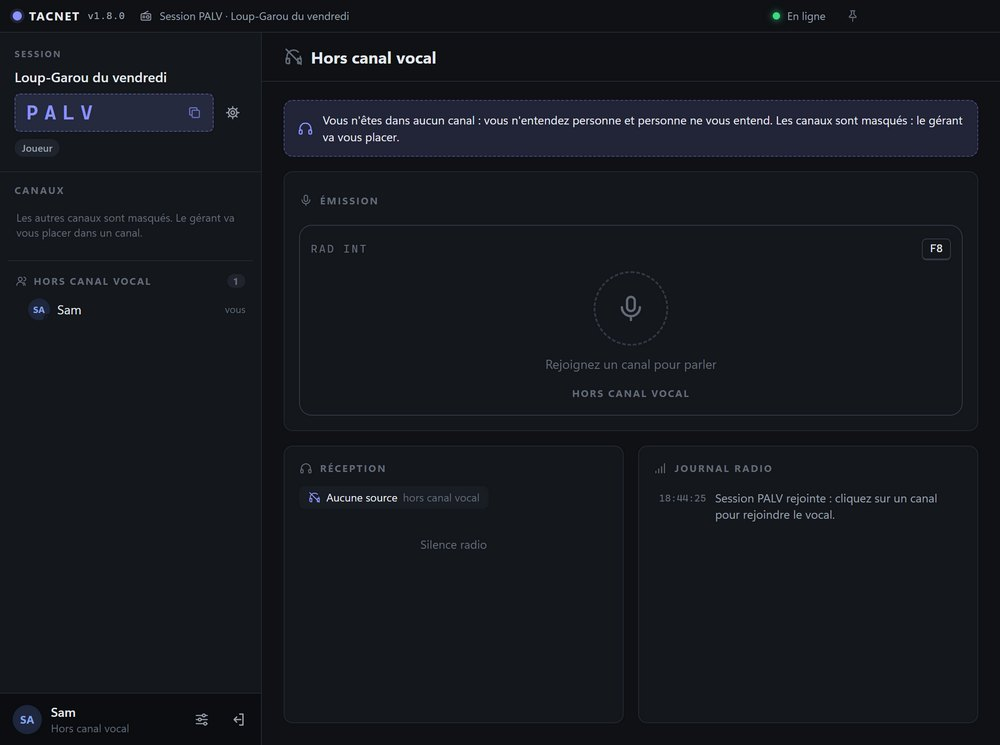
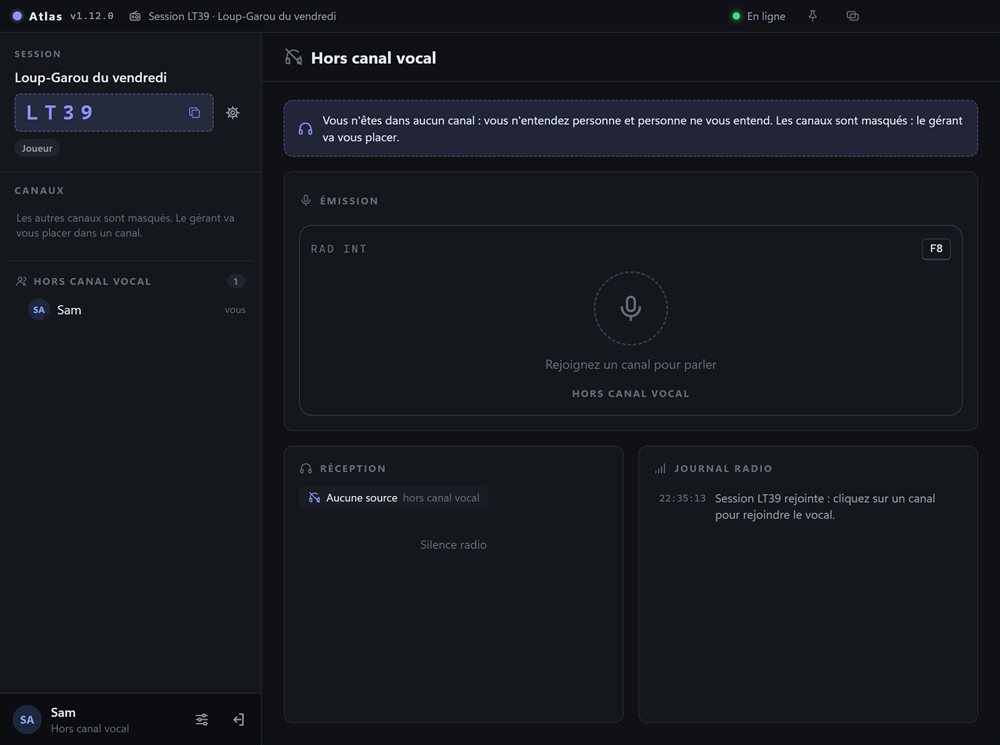
Atlas : nouveau nom, captures et schéma mis à jour

diff --git a/docs/domaine-et-https.md b/docs/domaine-et-https.md
@@ -1,24 +1,24 @@
-# Domaine et HTTPS pour votre serveur TACNET
+# Domaine et HTTPS pour votre serveur Atlas
 
-[← Retour à la page TACNET](../README.md#il-faut-un-serveur)
+[← Retour à la page Atlas](../README.md#il-faut-un-serveur)
 
-Ce guide est pour celles et ceux qui **hébergent leur propre serveur** TACNET, avec Docker ou avec Node.js sous Windows. Sur Render, le nom de domaine et le HTTPS sont déjà fournis : il n'y a rien à faire.
+Ce guide est pour celles et ceux qui **hébergent leur propre serveur** Atlas, avec Docker ou avec Node.js sous Windows. Sur Render, le nom de domaine et le HTTPS sont déjà fournis : il n'y a rien à faire.
 
 ## À quoi ça sert
 
-Sans domaine, les joueurs saisissent l'adresse de votre machine, un numéro de port et une empreinte à recopier. **Avec un nom de domaine**, ils saisissent une adresse simple, `wss://tacnet.example.com`, et **plus d'empreinte** : la connexion est chiffrée avec un vrai certificat.
+Sans domaine, les joueurs saisissent l'adresse de votre machine, un numéro de port et une empreinte à recopier. **Avec un nom de domaine**, ils saisissent une adresse simple, `wss://atlas.example.com`, et **plus d'empreinte** : la connexion est chiffrée avec un vrai certificat.
 
-Pour cela, un petit logiciel, le **reverse proxy**, reçoit leurs connexions et les transmet à TACNET. Ce guide utilise **Caddy**, qui obtient et renouvelle tout seul le certificat HTTPS.
+Pour cela, un petit logiciel, le **reverse proxy**, reçoit leurs connexions et les transmet à Atlas. Ce guide utilise **Caddy**, qui obtient et renouvelle tout seul le certificat HTTPS.
 
-> **Caddy n'est pas le seul choix.** Il est choisi ici parce qu'il est le plus simple, mais TACNET fonctionne avec **n'importe quel reverse proxy** : Nginx, Nginx Proxy Manager, Traefik, HAProxy, Apache, celui de votre NAS ou de votre box… Si vous en avez déjà un, ou si vous préférez un autre, passez directement à [Un autre reverse proxy](#un-autre-reverse-proxy-nginx-haproxy-traefik).
+> **Caddy n'est pas le seul choix.** Il est choisi ici parce qu'il est le plus simple, mais Atlas fonctionne avec **n'importe quel reverse proxy** : Nginx, Nginx Proxy Manager, Traefik, HAProxy, Apache, celui de votre NAS ou de votre box… Si vous en avez déjà un, ou si vous préférez un autre, passez directement à [Un autre reverse proxy](#un-autre-reverse-proxy-nginx-haproxy-traefik).
 
 ```
-Application  →  wss:// chiffré  →  Caddy  →  ws:// local  →  Serveur TACNET
+Application  →  wss:// chiffré  →  Caddy  →  ws:// local  →  Serveur Atlas
 ```
 
 ## Avant de commencer
 
-Trois choses à avoir en place. Dans tout ce guide, remplacez `tacnet.example.com` par votre domaine.
+Trois choses à avoir en place. Dans tout ce guide, remplacez `atlas.example.com` par votre domaine.
 
 1. **Un nom de domaine**, ou un sous-domaine gratuit (DuckDNS, par exemple).
 2. **Ce nom pointe vers votre machine.** Chez le service où vous l'avez obtenu, créez un enregistrement `A` avec l'adresse IP publique de votre box. Attendez quelques minutes.
@@ -26,12 +26,12 @@ Trois choses à avoir en place. Dans tout ce guide, remplacez `tacnet.example.co
 
 ## Avec Docker
 
-On ajoute Caddy au fichier du serveur : tout reste dans le même dossier, et une seule commande démarre l'ensemble. Il faut que le serveur Docker de la [page TACNET](../README.md#docker) soit déjà en place.
+On ajoute Caddy au fichier du serveur : tout reste dans le même dossier, et une seule commande démarre l'ensemble. Il faut que le serveur Docker de la [page Atlas](../README.md#docker) soit déjà en place.
 
 **1. Placez-vous dans le dossier du serveur**, celui qui contient `docker-compose.yml` :
 
 ```
-cd tacnet-serveur
+cd atlas-serveur
 ```
 
 **2. Créez le fichier de Caddy.** Cette commande crée `Caddyfile` et l'ouvre dans l'éditeur nano :
@@ -43,12 +43,12 @@ nano Caddyfile
 Collez ces trois lignes, avec votre domaine, puis enregistrez (**Ctrl+O**, **Entrée**) et quittez (**Ctrl+X**) :
 
 ```
-tacnet.example.com {
-    reverse_proxy tacnet:8080
+atlas.example.com {
+    reverse_proxy atlas:8080
 }
 ```
 
-`tacnet` est le nom du service dans `docker-compose.yml` : ne le changez pas.
+`atlas` est le nom du service dans `docker-compose.yml` : ne le changez pas.
 
 **3. Remplacez le fichier du serveur.** Ouvrez-le, effacez son contenu (dans nano, **Ctrl+K** plusieurs fois), collez celui-ci, remettez votre mot de passe (8 caractères minimum), puis enregistrez et quittez comme avant :
 
@@ -57,30 +57,30 @@ nano docker-compose.yml
 ```
 
 ```yaml
-# Serveur TACNET + Caddy (domaine et HTTPS) : le seul fichier à changer
+# Serveur Atlas + Caddy (domaine et HTTPS) : le seul fichier à changer
 #
 # Pour mettre à jour le serveur proprement (deux commandes, dans le dossier de ce fichier) :
 #   docker compose build --no-cache
 #   docker compose up -d
 # (Pour mettre à jour Caddy aussi, ajoutez « docker compose pull » avant la seconde.)
 services:
-  tacnet:
-    # Construit depuis le dépôt public de TACNET, comme Render
-    build: https://github.com/yanks-user/TACNET-SERVER-RENDER.git
+  atlas:
+    # Construit depuis le dépôt public d'Atlas, comme Render
+    build: https://github.com/yanks-user/Atlas-SERVER-RENDER.git
     restart: unless-stopped
     init: true
     stop_grace_period: 15s
-    # Pas de "ports" : seul Caddy joint TACNET, à l'intérieur de Docker
+    # Pas de "ports" : seul Caddy joint Atlas, à l'intérieur de Docker
     expose:
       - "8080"
     environment:
       # Mot de passe demandé aux joueurs, 8 caractères minimum
       SERVER_PASSWORD: "changez-moi-svp"
-      # Caddy chiffre et transmet : TACNET n'a plus besoin de son certificat
+      # Caddy chiffre et transmet : Atlas n'a plus besoin de son certificat
       TLS: "off"
       TRUST_PROXY: "true"
     volumes:
-      - tacnet-data:/data
+      - atlas-data:/data
     read_only: true
     tmpfs:
       - /tmp
@@ -93,7 +93,7 @@ services:
     image: caddy:2
     restart: unless-stopped
     depends_on:
-      - tacnet
+      - atlas
     ports:
       - "80:80"
       - "443:443"
@@ -104,12 +104,12 @@ services:
       - caddy-config:/config
 
 volumes:
-  tacnet-data:
+  atlas-data:
   caddy-data:
   caddy-config:
 ```
 
-Ce qui change : TACNET n'ouvre plus de port vers l'extérieur (seul Caddy est joignable), `TLS` et `TRUST_PROXY` sont activés, et un second service, `caddy`, apparaît.
+Ce qui change : Atlas n'ouvre plus de port vers l'extérieur (seul Caddy est joignable), `TLS` et `TRUST_PROXY` sont activés, et un second service, `caddy`, apparaît.
 
 **4. Démarrez :**
 
@@ -128,12 +128,12 @@ docker compose logs caddy
 La ligne `certificate obtained successfully` confirme que le certificat est obtenu. Puis, depuis n'importe quel ordinateur :
 
 ```
-curl -i https://tacnet.example.com/
+curl -i https://atlas.example.com/
 ```
 
 La réponse attendue est un code **426** avec `WebSocket uniquement.` : c'est bon signe.
 
-**6. Prévenez les joueurs.** Dans TACNET, **Paramètres > Serveur** : adresse `wss://tacnet.example.com`, sans numéro de port, et **empreinte vide**.
+**6. Prévenez les joueurs.** Dans Atlas, **Paramètres > Serveur** : adresse `wss://atlas.example.com`, sans numéro de port, et **empreinte vide**.
 
 > **Docker Desktop (Windows, Mac).** Tous les joueurs peuvent y arriver avec la même adresse : une seule personne qui se trompe 5 fois de mot de passe bloque alors tout le monde pendant une minute. Sur Linux, un NAS ou un hébergeur, ce cas ne se présente pas.
 
@@ -143,7 +143,7 @@ Caddy est un seul fichier à lancer à côté du serveur, sans installation.
 
 **1. Téléchargez Caddy.** Sur [caddyserver.com/download](https://caddyserver.com/download), choisissez **Windows** et **amd64**, puis enregistrez le fichier sous le nom `caddy.exe` dans un nouveau dossier, par exemple `C:\caddy`.
 
-**2. Réglez le serveur TACNET.** Ajoutez ces trois lignes dans `config.env` (à côté de `demarrer-serveur.cmd`), puis fermez la fenêtre du serveur et relancez `demarrer-serveur.cmd` :
+**2. Réglez le serveur Atlas.** Ajoutez ces trois lignes dans `config.env` (à côté de `demarrer-serveur.cmd`), puis fermez la fenêtre du serveur et relancez `demarrer-serveur.cmd` :
 
 ```
 TLS=off
@@ -156,7 +156,7 @@ HOST=127.0.0.1
 **3. Créez le fichier de Caddy.** Dans `C:\caddy`, créez avec le Bloc-notes un fichier nommé exactement `Caddyfile`, sans extension (**Enregistrer sous**, type **Tous les fichiers**), avec votre domaine :
 
 ```
-tacnet.example.com {
+atlas.example.com {
     reverse_proxy 127.0.0.1:8080
 }
 ```
@@ -170,22 +170,22 @@ cd C:\caddy
 
 Autorisez Caddy dans le pare-feu Windows s'il le demande. **Laissez la fenêtre ouverte pendant les parties**, comme celle du serveur : la fermer arrête Caddy. La ligne `certificate obtained successfully` confirme que le certificat est obtenu.
 
-**5. Vérifiez et prévenez les joueurs.** Ouvrez `https://tacnet.example.com` dans un navigateur : la page affiche `WebSocket uniquement.`, c'est bon signe. Les joueurs saisissent dans **Paramètres > Serveur** l'adresse `wss://tacnet.example.com`, sans numéro de port, et **l'empreinte vide**.
+**5. Vérifiez et prévenez les joueurs.** Ouvrez `https://atlas.example.com` dans un navigateur : la page affiche `WebSocket uniquement.`, c'est bon signe. Les joueurs saisissent dans **Paramètres > Serveur** l'adresse `wss://atlas.example.com`, sans numéro de port, et **l'empreinte vide**.
 
 ## Si ça ne marche pas
 
 | Ce que vous voyez | Que faire |
 |---|---|
 | Le journal de Caddy parle de `timeout` ou d'un certificat impossible à obtenir | Les ports 80 et 443 ne sont pas joignables depuis Internet : vérifiez la redirection de votre box et le pare-feu. Certains fournisseurs bloquent le port 80. |
-| Le navigateur ne trouve pas `tacnet.example.com` | Le nom ne pointe pas encore vers votre box : vérifiez l'enregistrement `A` et patientez quelques minutes. Si l'adresse IP de votre box change, utilisez un service d'adresse dynamique (DuckDNS, par exemple). |
-| `curl` : code 502 ou 503 | Caddy ne joint pas TACNET. Docker : `docker compose ps` doit montrer `tacnet` et `caddy` en `Up`, et le Caddyfile doit contenir `tacnet:8080`. Windows : la fenêtre du serveur doit être ouverte, et `config.env` contenir `TLS=off`. |
+| Le navigateur ne trouve pas `atlas.example.com` | Le nom ne pointe pas encore vers votre box : vérifiez l'enregistrement `A` et patientez quelques minutes. Si l'adresse IP de votre box change, utilisez un service d'adresse dynamique (DuckDNS, par exemple). |
+| `curl` : code 502 ou 503 | Caddy ne joint pas Atlas. Docker : `docker compose ps` doit montrer `atlas` et `caddy` en `Up`, et le Caddyfile doit contenir `atlas:8080`. Windows : la fenêtre du serveur doit être ouverte, et `config.env` contenir `TLS=off`. |
 | « Certificat refusé » dans l'application | L'adresse doit commencer par `wss://`, et l'empreinte doit être vide. |
 
 ## Un autre reverse proxy (Nginx, HAProxy, Traefik…)
 
 **Caddy est un choix, pas une obligation.** Si vous avez déjà un reverse proxy (Nginx, Nginx Proxy Manager, Traefik, HAProxy, Apache, celui de votre NAS…), ou si vous en préférez un autre, gardez-le : il suffit de régler deux choses.
 
-**1. Le serveur TACNET** doit savoir qu'un proxy chiffre à sa place, et ne doit être joignable que par lui :
+**1. Le serveur Atlas** doit savoir qu'un proxy chiffre à sa place, et ne doit être joignable que par lui :
 
 | | Réglage |
 |---|---|
@@ -222,4 +222,4 @@ location / {
 
 Avec **Nginx Proxy Manager**, créez un *Proxy Host* vers `127.0.0.1` (ou l'adresse de la machine) port `8080`, cochez **Websockets Support** et demandez un certificat **Let's Encrypt** dans l'onglet SSL.
 
-Dans tous les cas, les joueurs saisissent `wss://tacnet.example.com` et laissent l'empreinte vide. Le guide du dossier `TACNET_SERV.zip` (page des [Releases](https://github.com/yanks-user/TACNET/releases/latest)) donne des exemples complets pour Nginx et HAProxy, avec le certificat Let's Encrypt.
+Dans tous les cas, les joueurs saisissent `wss://atlas.example.com` et laissent l'empreinte vide. Le guide du dossier `Atlas_SERV.zip` (page des [Releases](https://github.com/yanks-user/Atlas/releases/latest)) donne des exemples complets pour Nginx et HAProxy, avec le certificat Let's Encrypt.

diff --git a/docs/installation.md b/docs/installation.md
@@ -1,31 +1,31 @@
 # Installation et mises à jour
 
-[← Retour à la page TACNET](../README.md#télécharger)
+[← Retour à la page Atlas](../README.md#télécharger)
 
 ## Installateur ou portable ?
 
 Choisissez l'une ou l'autre version : elles ne se mélangent pas.
 
-- **Installateur** : lancez-le. Sa première page propose le dossier d'installation (`C:\Users\<votre nom>\AppData\Local\Programs\TACNET` par défaut, bouton *Parcourir* pour en choisir un autre, hors `C:\Program Files`).
-- **Version portable** : décompressez `TACNET_APP.zip`, puis lancez le .exe.
+- **Installateur** : lancez-le. Sa première page propose le dossier d'installation (`C:\Users\<votre nom>\AppData\Local\Programs\Atlas` par défaut, bouton *Parcourir* pour en choisir un autre, hors `C:\Program Files`).
+- **Version portable** : décompressez `Atlas_APP.zip`, puis lancez le .exe.
 
 Où sont vos réglages (adresse du serveur, touches, audio, thème) :
 
-- **Avec l'installateur** : dans `%APPDATA%\TACNET`. Ils survivent aux mises à jour, qui gardent aussi le dossier choisi.
+- **Avec l'installateur** : dans `%APPDATA%\Atlas`. Ils survivent aux mises à jour, qui gardent aussi le dossier choisi.
 - **Version portable** : à côté du .exe.
 
 Changer de version :
 
-- **Déplacer TACNET** : relancez l'installateur et choisissez un autre dossier. L'ancien emplacement est retiré, vos réglages sont conservés.
+- **Déplacer Atlas** : relancez l'installateur et choisissez un autre dossier. L'ancien emplacement est retiré, vos réglages sont conservés.
 - **En venant de la version portable** : ressaisissez l'adresse du serveur et vos touches une fois. Le mot de passe du serveur, vos pseudos réservés et vos sessions sauvegardées sont repris.
-- **Désinstaller** : *Paramètres Windows > Applications > TACNET*.
+- **Désinstaller** : *Paramètres Windows > Applications > Atlas*.
 
 ## Mises à jour
 
-TACNET regarde au démarrage (puis toutes les 6 heures) si une version plus récente est publiée sur la page des [Releases](https://github.com/yanks-user/TACNET/releases/latest), et l'indique par un bandeau.
+Atlas regarde au démarrage (puis toutes les 6 heures) si une version plus récente est publiée sur la page des [Releases](https://github.com/yanks-user/Atlas/releases/latest), et l'indique par un bandeau.
 
 - **Version portable** : *Télécharger* ouvre la page de la version, il suffit ensuite de remplacer l'ancien .exe par le nouveau.
-- **Avec l'installateur** : le bouton devient *Mettre à jour*. TACNET télécharge la version, puis *Redémarrer et installer* la met en place et rouvre TACNET.
+- **Avec l'installateur** : le bouton devient *Mettre à jour*. Atlas télécharge la version, puis *Redémarrer et installer* la met en place et rouvre Atlas.
 - **Votre accord** : rien n'est téléchargé ni installé sans votre clic. Seule la version de l'application est transmise (GitHub voit votre adresse IP, comme tout site que vous visitez).
 - **Désactiver** : *Paramètres > À propos*.
 - **Serveur** : il fait de même dans son journal (`UPDATE_CHECK=off` pour le couper). Si le serveur d'un groupe n'est pas à jour, les joueurs le voient et préviennent celui qui l'héberge.

diff --git a/docs/services-tiers.md b/docs/services-tiers.md
@@ -1,15 +1,15 @@
 # Les services tiers
 
-[← Retour à la page TACNET](../README.md#les-services-tiers)
+[← Retour à la page Atlas](../README.md#les-services-tiers)
 
-TACNET s'appuie sur quelques services extérieurs. Le schéma montre le rôle de chacun, le tableau ce qu'il voit.
+Atlas s'appuie sur quelques services extérieurs. Le schéma montre le rôle de chacun, le tableau ce qu'il voit.
 
-![Schéma des services tiers de TACNET : les joueurs, Render, GitHub, Upstash (facultatif) et le STUN de Google](services-tiers.png)
+![Schéma des services tiers d'Atlas : les joueurs, Render, GitHub, Upstash (facultatif) et le STUN de Google](services-tiers.png)
 
 | Service | À quoi il sert | Obligatoire ? | Ce qu'il voit | Coût |
 |---|---|---|---|---|
-| **GitHub** | Héberge la page du projet, les versions de TACNET et le code du serveur que Render ou Docker construisent. | Pour télécharger TACNET et créer le serveur sur Render ou Docker. La recherche de mises à jour se désactive. | Votre adresse IP et la version de l'application, comme tout site que vous visitez. | Gratuit |
-| **Render** | Héberge le serveur TACNET, qui met les joueurs en relation. | Non : Docker ou Node.js conviennent aussi. | Les échanges avec le serveur : Render déchiffre la connexion, il voit donc ce qui s'y échange (pseudos, sessions, et le mot de passe du serveur à la connexion). Jamais la voix. | Plan gratuit : le disque est effacé à chaque redémarrage |
+| **GitHub** | Héberge la page du projet, les versions d'Atlas et le code du serveur que Render ou Docker construisent. | Pour télécharger Atlas et créer le serveur sur Render ou Docker. La recherche de mises à jour se désactive. | Votre adresse IP et la version de l'application, comme tout site que vous visitez. | Gratuit |
+| **Render** | Héberge le serveur Atlas, qui met les joueurs en relation. | Non : Docker ou Node.js conviennent aussi. | Les échanges avec le serveur : Render déchiffre la connexion, il voit donc ce qui s'y échange (pseudos, sessions, et le mot de passe du serveur à la connexion). Jamais la voix. | Plan gratuit : le disque est effacé à chaque redémarrage |
 | **Upstash** | Garde les pseudos, les codes de session et les sessions quand le disque de Render est effacé. | Non, facultatif. | Les pseudos, les noms de session et des empreintes de jetons. Jamais le mot de passe du serveur ni la voix. | Plan gratuit |
 | **STUN de Google** | Aide les PC à se trouver pour que la voix passe en direct. | Par défaut. L'adresse se change dans le fichier de configuration. | Votre adresse IP et votre port, quand vous rejoignez une session. Jamais la voix. | Gratuit |
 | **Votre propre serveur** | Remplace Render, avec un disque durable : Docker (NAS, mini-serveur, hébergeur) ou Node.js sous Windows. | Non, facultatif. | Rien d'extérieur : c'est vous qui l'hébergez. | À votre charge |

diff --git a/docs/exemple-loup-garou.md b/docs/exemple-loup-garou.md
@@ -1,10 +1,10 @@
 # Exemple : le Loup-Garou à 10 joueurs
 
-[← Retour à la page TACNET](../README.md#exemple--le-loup-garou-à-10-joueurs)
+[← Retour à la page Atlas](../README.md#exemple--le-loup-garou-à-10-joueurs)
 
 Les canaux masqués servent à garder un secret. Exemple avec une partie de Loup-Garou à 10 joueurs : **3 loups-garous, 1 voyante, 1 sorcière et 5 villageois** (les autres rôles se gèrent de la même façon).
 
-**Le principe** : TACNET ne remplace pas votre vocal habituel, il le complète. Le jour, tout le monde débat sur Discord (ou un autre vocal). La nuit, tout le monde coupe son micro sur Discord, et le narrateur utilise TACNET pour parler aux rôles de nuit, un par un. Chacun garde le même canal toute la partie : **personne n'a jamais à changer de canal**.
+**Le principe** : Atlas ne remplace pas votre vocal habituel, il le complète. Le jour, tout le monde débat sur Discord (ou un autre vocal). La nuit, tout le monde coupe son micro sur Discord, et le narrateur utilise Atlas pour parler aux rôles de nuit, un par un. Chacun garde le même canal toute la partie : **personne n'a jamais à changer de canal**.
 
 ## Mise en place, une seule fois
 
@@ -19,7 +19,7 @@ Les canaux masqués servent à garder un secret. Exemple avec une partie de Loup
 ## Une nuit
 
 1. Sur Discord, le narrateur annonce « Le village s'endort » : tout le monde coupe son micro.
-2. Sur TACNET, il appelle les rôles l'un après l'autre : « Les loups-garous se réveillent ». Les loups se concertent entre eux en RAD Int et le narrateur les entend, ils désignent leur victime. Puis « La voyante se réveille » : elle répond, seul le narrateur l'entend. Puis la sorcière.
+2. Sur Atlas, il appelle les rôles l'un après l'autre : « Les loups-garous se réveillent ». Les loups se concertent entre eux en RAD Int et le narrateur les entend, ils désignent leur victime. Puis « La voyante se réveille » : elle répond, seul le narrateur l'entend. Puis la sorcière.
 3. Au matin, tout le monde rouvre son micro sur Discord et le narrateur annonce la victime.
 
 | Le narrateur voit tout et appelle un rôle à la fois | Un loup voit ses complices, et le narrateur qui lui parle |

diff --git a/docs/upstash.md b/docs/upstash.md
@@ -1,6 +1,6 @@
 # Garder les pseudos et les sessions avec Upstash (facultatif)
 
-[← Retour à la page TACNET](../README.md#render)
+[← Retour à la page Atlas](../README.md#render)
 
 Sur le plan gratuit de Render, le disque est effacé à chaque redémarrage : les pseudos réservés et les sessions gardées disparaissent. Sans cette option, rien ne change. Avec elle, le serveur copie ses pseudos réservés, ses codes de session et ses sessions gardées chez [Upstash](https://upstash.com), un petit service en ligne gratuit (environ 256 Mo et 500 000 commandes par mois d'après Upstash), et les y retrouve après chaque redémarrage, mise à jour ou mise en veille.
 
